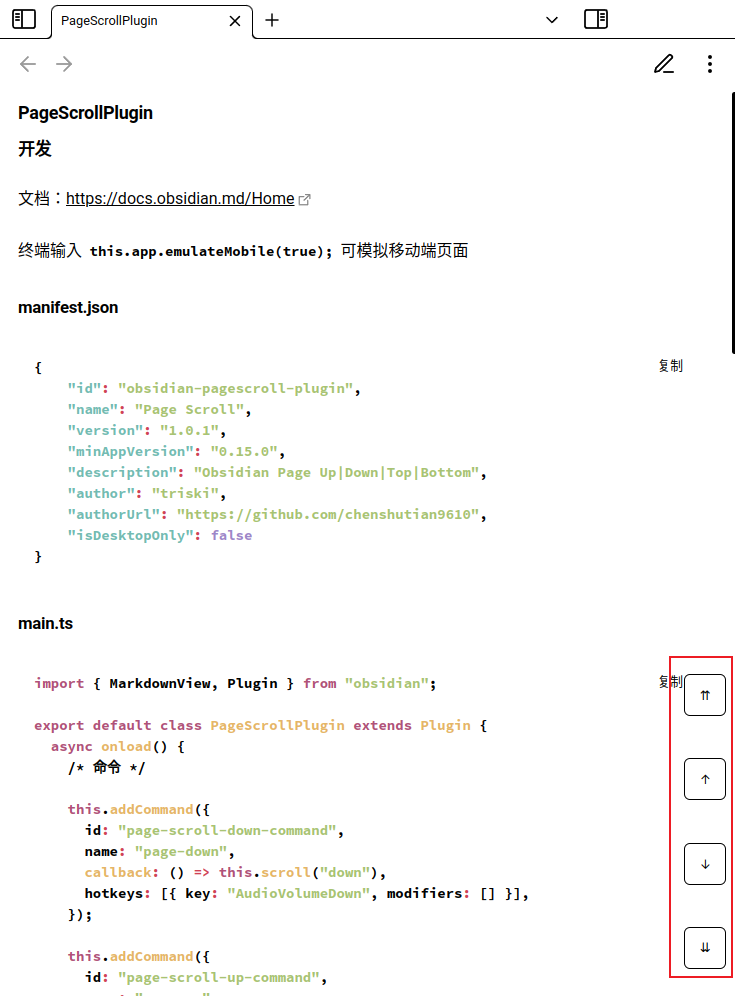
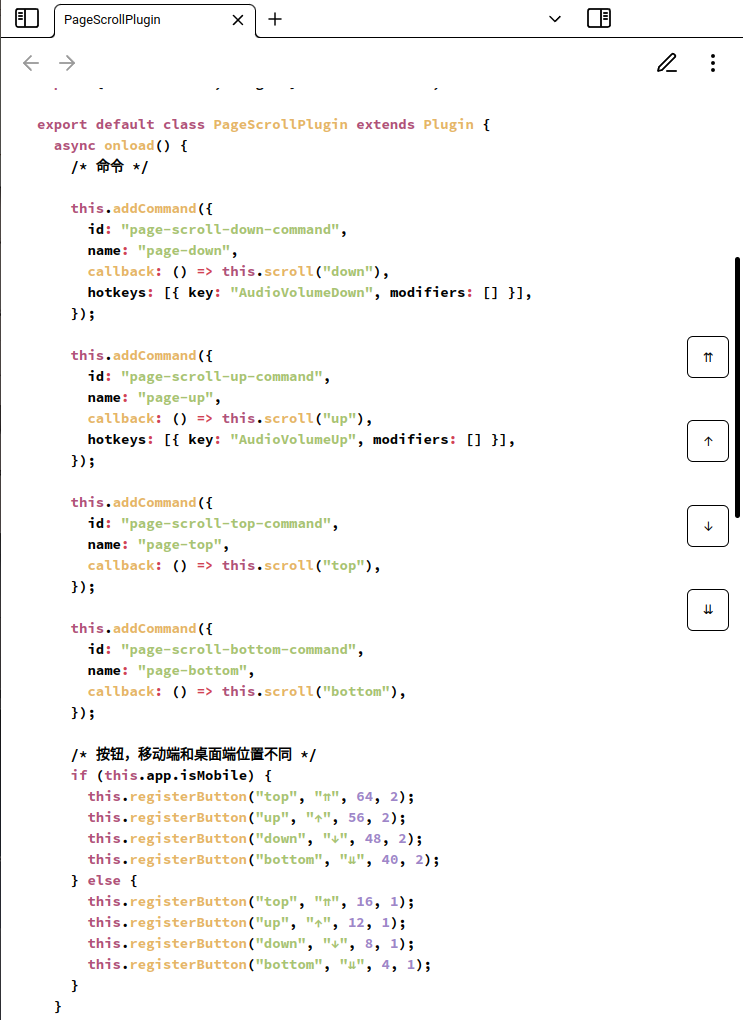
modify mobile's button position

diff --git a/main.js b/main.js
@@ -53,10 +53,10 @@ var PageScrollPlugin = class extends import_obsidian.Plugin {
       callback: () => this.scroll("bottom")
     });
     if (this.app.isMobile) {
-      this.registerButton("top", "\u21C8", 32, 2);
-      this.registerButton("up", "\u2191", 24, 2);
-      this.registerButton("down", "\u2193", 16, 2);
-      this.registerButton("bottom", "\u21CA", 8, 2);
+      this.registerButton("top", "\u21C8", 64, 2);
+      this.registerButton("up", "\u2191", 56, 2);
+      this.registerButton("down", "\u2193", 48, 2);
+      this.registerButton("bottom", "\u21CA", 40, 2);
     } else {
       this.registerButton("top", "\u21C8", 16, 1);
       this.registerButton("up", "\u2191", 12, 1);
@@ -118,4 +118,4 @@ var PageScrollPlugin = class extends import_obsidian.Plugin {
     (_d = document.getElementById("bottomTriskiPageBtn")) == null ? void 0 : _d.remove();
   }
 };
[2 lines of base64/hex data omitted]

diff --git a/main.ts b/main.ts
@@ -32,10 +32,10 @@ export default class PageScrollPlugin extends Plugin {
 
     /* 按钮，移动端和桌面端位置不同 */
     if (this.app.isMobile) {
-      this.registerButton("top", "⇈", 32, 2);
-      this.registerButton("up", "↑", 24, 2);
-      this.registerButton("down", "↓", 16, 2);
-      this.registerButton("bottom", "⇊", 8, 2);
+      this.registerButton("top", "⇈", 64, 2);
+      this.registerButton("up", "↑", 56, 2);
+      this.registerButton("down", "↓", 48, 2);
+      this.registerButton("bottom", "⇊", 40, 2);
     } else {
       this.registerButton("top", "⇈", 16, 1);
       this.registerButton("up", "↑", 12, 1);
